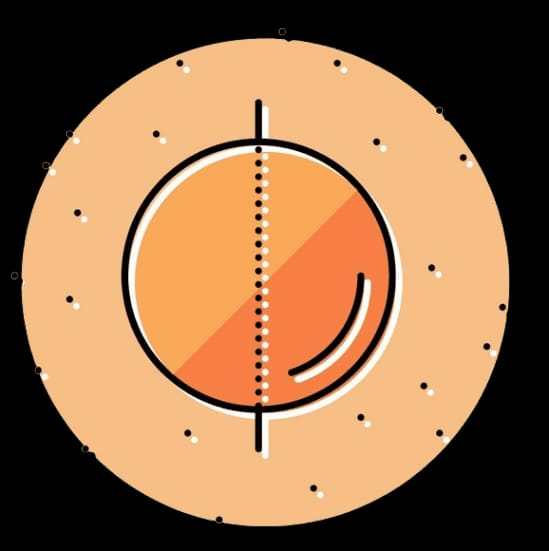
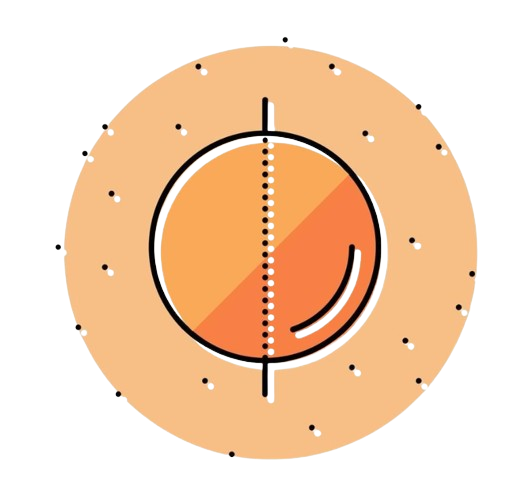
done with the main section

diff --git a/homepage.css b/homepage.css
@@ -43,9 +43,14 @@ header .links a {
 
 .login-signup a:nth-of-type(2) {
   background-color: white;
+  color: black;
   padding: 10px 20px;
   border-radius: 30px;
   text-decoration: none;
+}
+
+.login-signup a:nth-of-type(2):visited {
+  color: black;
 }
 
 header .login-signup p {
@@ -163,6 +168,57 @@ header .login-signup p {
   opacity: 70%;
 }
 
+.info-bg .orange-ball-img {
+  width: 450px;
+  height: 450px;
+  position: relative;
+  top: -350px;
+  left: 800px;
+  /* opacity: 50%; */
+  animation: 150s linear 0s rotating-ball infinite;
+}
+
+.info-bg .orange-ball-img img {
+  width: 450px;
+  height: 450px;
+  object-fit: contain;
+}
+
+@keyframes rotating-ball {
+  0% {
+    transform: rotateZ(0deg);
+  }
+  100% {
+    transform: rotateZ(360deg);
+  }
+}
+
+.info-bg .paper-plane2-img img {
+  width: 128px;
+  height: 128px;
+}
+
+.info-bg .paper-plane2-img {
+  width: 128px;
+  height: 128px;
+  position: relative;
+  top: -19rem;
+  left: 53rem;
+  animation: 8s ease-in-out 0s bobbing-plane2 infinite;
+}
+
+@keyframes bobbing-plane2 {
+  0% {
+    transform: rotateZ(0);
+  }
+  50% {
+    transform: rotateZ(30deg);
+  }
+  100% {
+    transform: rotateZ(0);
+  }
+}
+
 .info-fg {
   height: 100vh;
   position: relative;
@@ -241,10 +297,23 @@ header .login-signup p {
   margin-left: 0;
   background-color: #ff723a;
   border-radius: 10px;
+  transition: background-color 1s ease;
+}
+
+.info-fg .search-bar span:hover {
+  cursor: pointer;
+  background-color: #e75115;
 }
 
 .info-fg .info-right {
   /* background-color: greenyellow; */
-  opacity: 50%;
+  /* opacity: 50%; */
   height: 100%;
+  position: relative;
+}
+
+.info-fg .info-right img {
+  position: absolute;
+  bottom: 0;
+  left: 200px;
 }

diff --git a/homepage.html b/homepage.html
@@ -51,9 +51,12 @@
           <div class="document-img">
             <img src="images/document.png" />
           </div>
-          <!-- <div class="orange-ball-img">
+          <div class="orange-ball-img">
             <img src="images/orange-ball.jpg" />
-          </div> -->
+          </div>
+          <div class="paper-plane2-img">
+            <img src="images/paper-plane2.png" />
+          </div>
         </div>
       </section>
       <section class="info-fg">
@@ -73,7 +76,9 @@
             </form>
           </div>
         </div>
-        <div class="info-right"></div>
+        <div class="info-right">
+          <img src="images/student.png" />
+        </div>
       </section>
     </main>
   </body>
